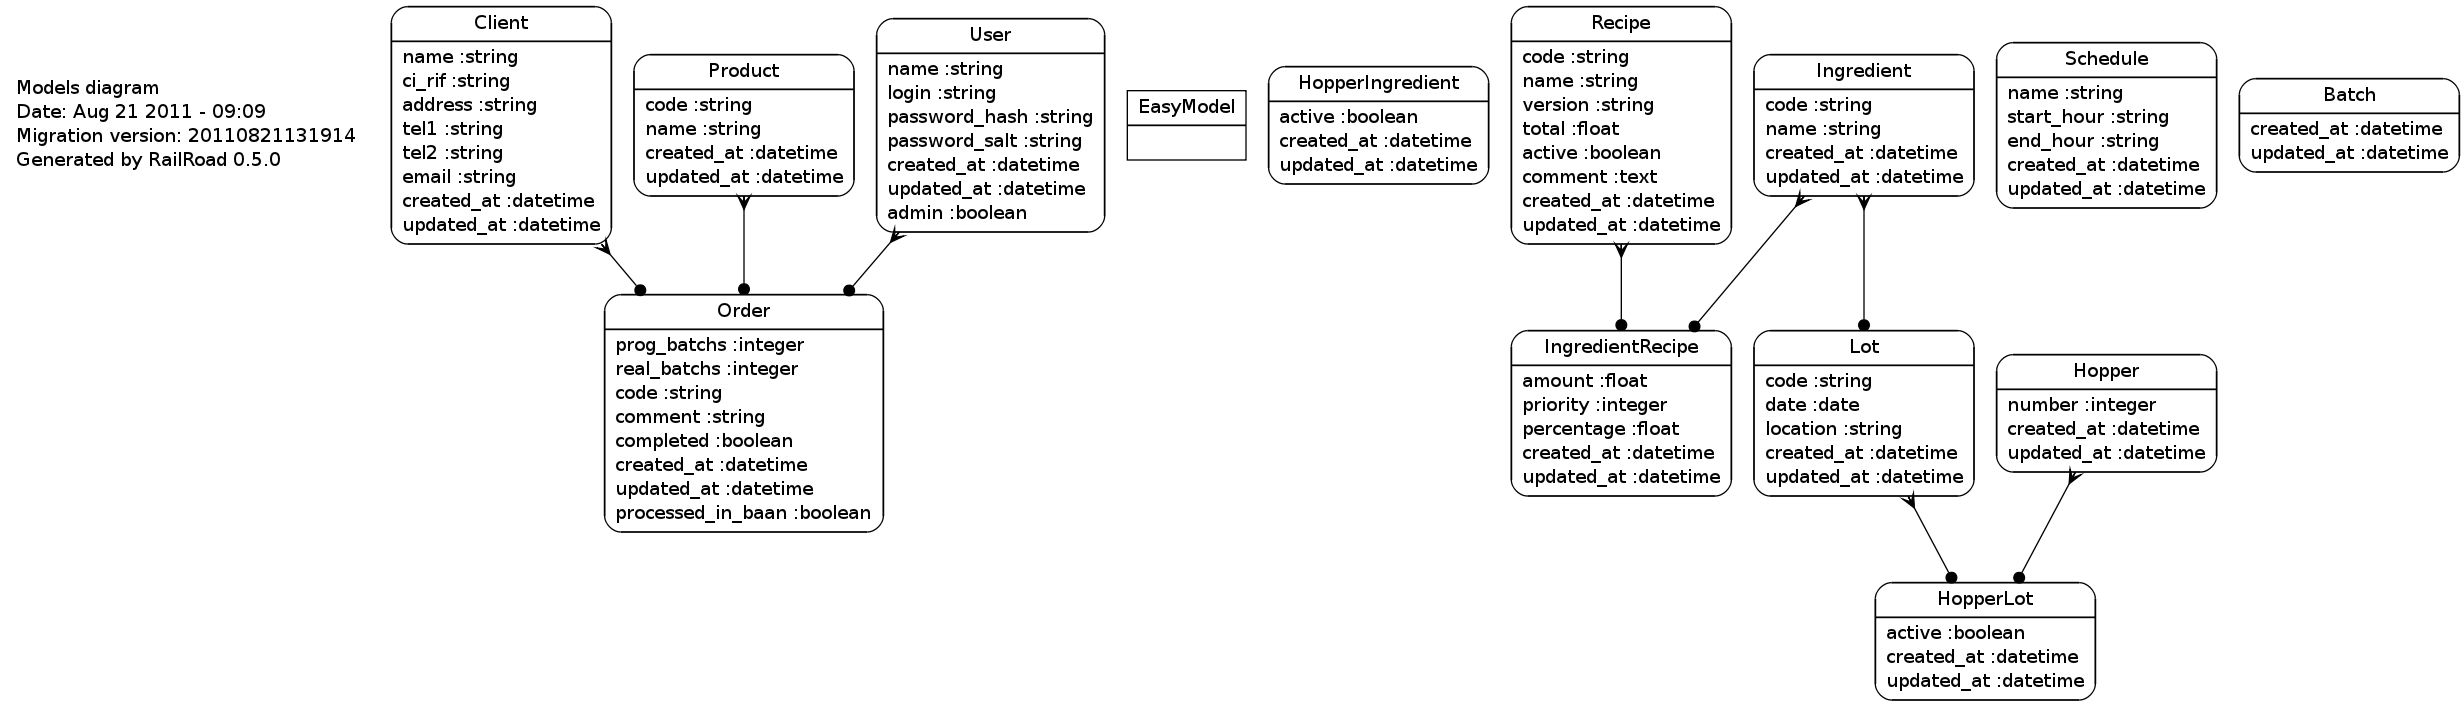
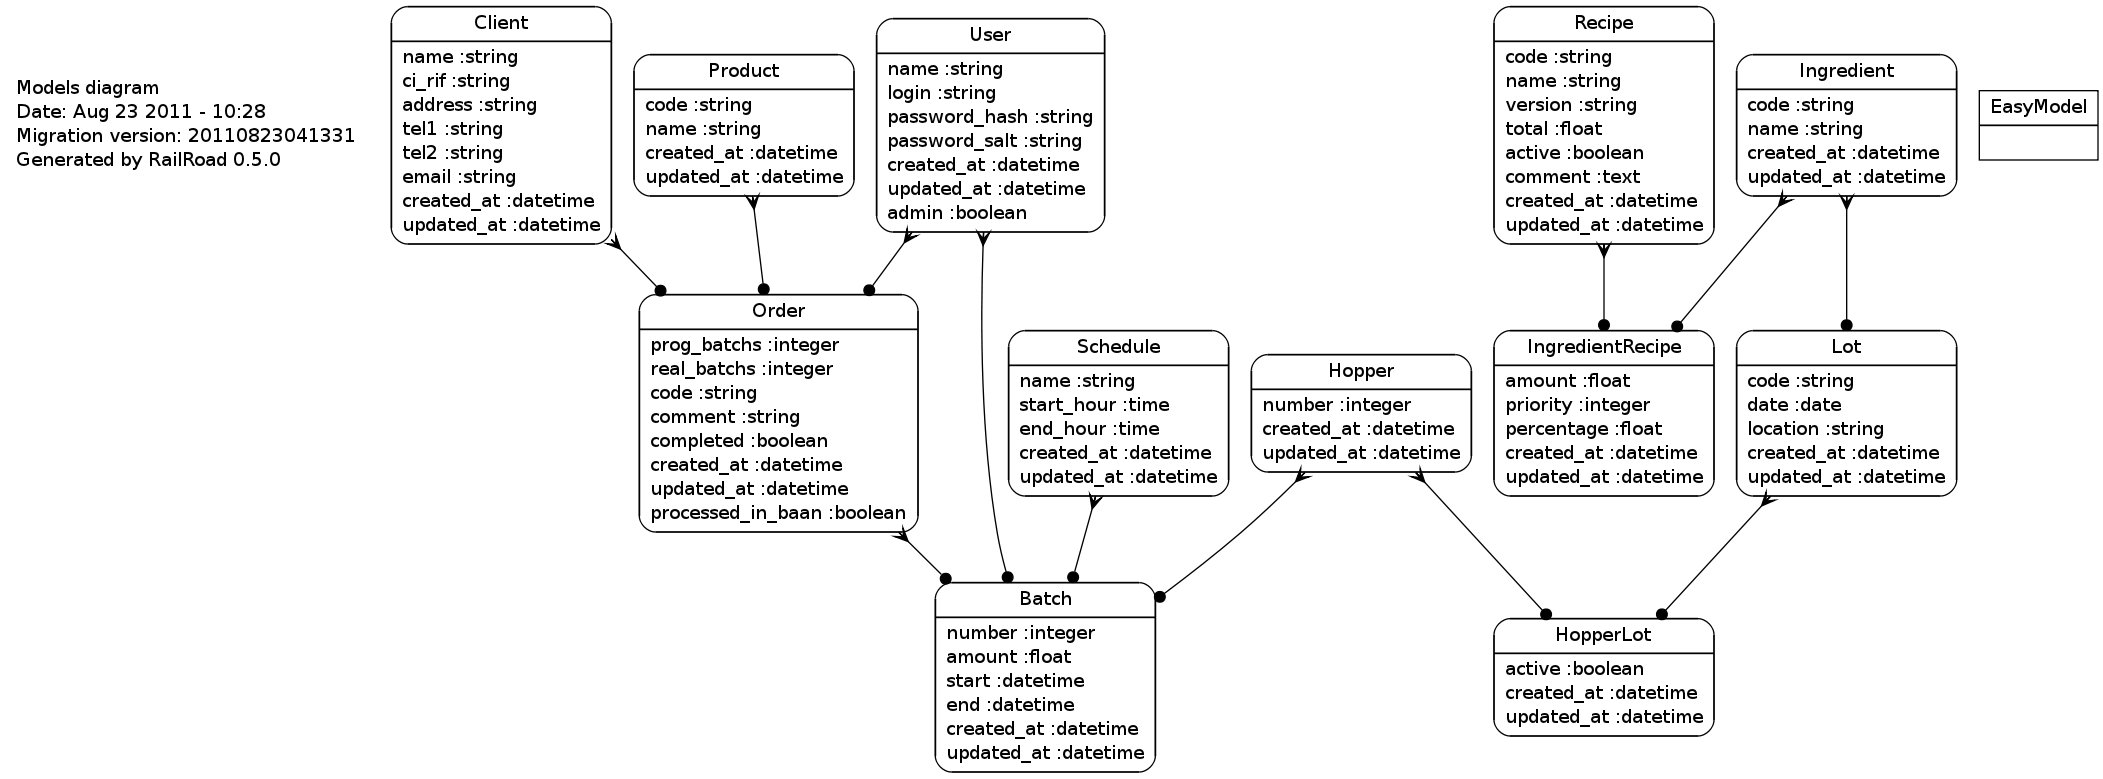
Finished CRUD for batches. Fixed some minor view issues

diff --git a/app/controllers/batches_controller.rb b/app/controllers/batches_controller.rb
@@ -5,14 +5,20 @@ class BatchesController < ApplicationController
 
   def new
     @orders = Order.find :all, :conditions => ['completed = ?', false]
-    @recipes = Recipe.find :all, :order => 'name ASC'
-    @clients = Client.find :all, :order => 'name ASC'
     @users = User.find :all, :order => 'name ASC'
     @schedules = Schedule.find :all, :order => 'name ASC'
-    @hoppers = Hopper.find_active
+    @hoppers = Hopper.actives_to_select
   end
 
-   def create
+  def edit
+    @batch = Batch.find params[:id]
+    @orders = Order.find :all, :conditions => ['completed = ?', false]
+    @users = User.find :all, :order => 'name ASC'
+    @schedules = Schedule.find :all, :order => 'name ASC'
+    @hoppers = Hopper.actives_to_select
+  end
+
+  def create
     @batch = Batch.new params[:batch]
     if @batch.save
       flash[:notice] = 'Batch guardado con éxito'
@@ -21,5 +27,28 @@ class BatchesController < ApplicationController
       new
       render :new
     end
+  end
+
+  def update
+    @batch = Batch.find params[:id]
+    @batch.update_attributes(params[:batch])
+    if @batch.save
+      flash[:notice] = 'Batch actualizado con éxito'
+      redirect_to :batches
+    else
+      edit
+      render :edit
+    end
+  end
+
+  def destroy
+    @batch = Batch.find params[:id]
+    if @batch.eliminate
+      flash[:notice] = 'Batch eliminado con éxito'
+    else
+      flash[:notice] = 'El batch no se pudo eliminar'
+      flash[:type] = 'error'
+    end
+    redirect_to :batches
   end
 end

diff --git a/db/schema.rb b/db/schema.rb
@@ -14,7 +14,6 @@ ActiveRecord::Schema.define(:version => 20110823041331) do
 
   create_table "batches", :force => true do |t|
     t.integer  "order_id"
-    t.integer  "recipe_id"
     t.integer  "hopper_id"
     t.integer  "schedule_id"
     t.integer  "user_id"
@@ -28,7 +27,6 @@ ActiveRecord::Schema.define(:version => 20110823041331) do
 
   add_index "batches", ["hopper_id"], :name => "fk_batches_hopper_id"
   add_index "batches", ["order_id"], :name => "fk_batches_order_id"
-  add_index "batches", ["recipe_id"], :name => "fk_batches_recipe_id"
   add_index "batches", ["schedule_id"], :name => "fk_batches_schedule_id"
   add_index "batches", ["user_id"], :name => "fk_batches_user_id"
 
@@ -100,7 +98,7 @@ ActiveRecord::Schema.define(:version => 20110823041331) do
     t.integer  "real_batchs"
     t.string   "code",                                 :null => false
     t.string   "comment"
-    t.boolean  "completed"
+    t.boolean  "completed",         :default => false
     t.datetime "created_at"
     t.datetime "updated_at"
     t.boolean  "processed_in_baan", :default => false

diff --git a/app/models/hopper.rb b/app/models/hopper.rb
@@ -1,6 +1,6 @@
 class Hopper < ActiveRecord::Base
   has_many :hopper_lot
-  #has_many :lot
+  has_many :batch
 
   validates_uniqueness_of :number
   validates_presence_of :number
@@ -15,6 +15,18 @@ class Hopper < ActiveRecord::Base
         :lot => lots,
         :hopper_id => hop.id
       }
+    end
+    return actives
+  end
+
+  def self.actives_to_select
+    actives = []
+
+    hoppers = Hopper.find :all, :order => 'number ASC'
+    hoppers.each do |hop|
+      lots = HopperLot.find :first, :conditions => ['hopper_id = ? and active = ?', hop.id, true]
+      next if lots.nil?
+      actives << ["#{hop.number} - Lote: #{lots.lot.code}", hop.id]
     end
     return actives
   end

diff --git a/db/migrate/20110823041331_create_batches.rb b/db/migrate/20110823041331_create_batches.rb
@@ -5,7 +5,6 @@ extend MigrationHelper
   def self.up
     create_table :batches do |t|
       t.references :order
-      t.references :recipe
       t.references :hopper
       t.references :schedule
       t.references :user
@@ -16,7 +15,6 @@ extend MigrationHelper
       t.timestamps
     end
     add_foreign_key 'batches', 'order_id', 'orders'
-    add_foreign_key 'batches', 'recipe_id', 'recipes'
     add_foreign_key 'batches', 'hopper_id', 'hoppers'
     add_foreign_key 'batches', 'schedule_id', 'schedules'
     add_foreign_key 'batches', 'user_id', 'users'

diff --git a/app/models/batch.rb b/app/models/batch.rb
@@ -1,2 +1,10 @@
 class Batch < ActiveRecord::Base
+  belongs_to :order
+  belongs_to :hopper
+  belongs_to :schedule
+  belongs_to :user
+
+  validates_presence_of :order, :hopper, :schedule, :user, :start, :end
+  validates_numericality_of :number, :only_integer => true, :greater_than_or_equal_to => 0
+  validates_numericality_of :amount, :greater_than_or_equal_to => 0
 end

diff --git a/app/controllers/users_controller.rb b/app/controllers/users_controller.rb
@@ -32,7 +32,7 @@ class UsersController < ApplicationController
     @user = User.find params[:id]
     @user.eliminate
     if @user.errors.size.zero?
-      flash[:notice] = "Usuario <strong>'#{@user.name}'</strong> eliminado con éxito"
+      flash[:notice] = "Usuario eliminado con éxito"
     else
       flash[:notice] = "El usuario no se ha podido eliminar"
     end

diff --git a/db/migrate/20110616183547_create_orders.rb b/db/migrate/20110616183547_create_orders.rb
@@ -12,7 +12,7 @@ extend MigrationHelper
       t.integer :real_batchs
       t.string :code, :null => false
       t.string :comment
-      t.boolean :completed
+      t.boolean :completed, :default => false
       t.timestamps :register_date
       t.timestamps :start_date
       t.timestamps :end_date

diff --git a/app/models/order.rb b/app/models/order.rb
@@ -3,6 +3,7 @@ class Order < ActiveRecord::Base
   belongs_to :client
   belongs_to :user
   belongs_to :product
+  has_many :batch
   
   validates_presence_of :code, :prog_batchs, :recipe_id, :user_id
   validates_uniqueness_of :code

diff --git a/app/models/user.rb b/app/models/user.rb
@@ -1,5 +1,6 @@
 class User < ActiveRecord::Base
   has_many :order
+  has_many :batch
 
   validates_uniqueness_of :login
   validates_presence_of :name, :login

diff --git a/app/models/schedule.rb b/app/models/schedule.rb
@@ -1,4 +1,5 @@
 class Schedule < ActiveRecord::Base
+  has_many :batch
 
   validates_uniqueness_of :name
   validates_presence_of :start_hour, :end_hour
